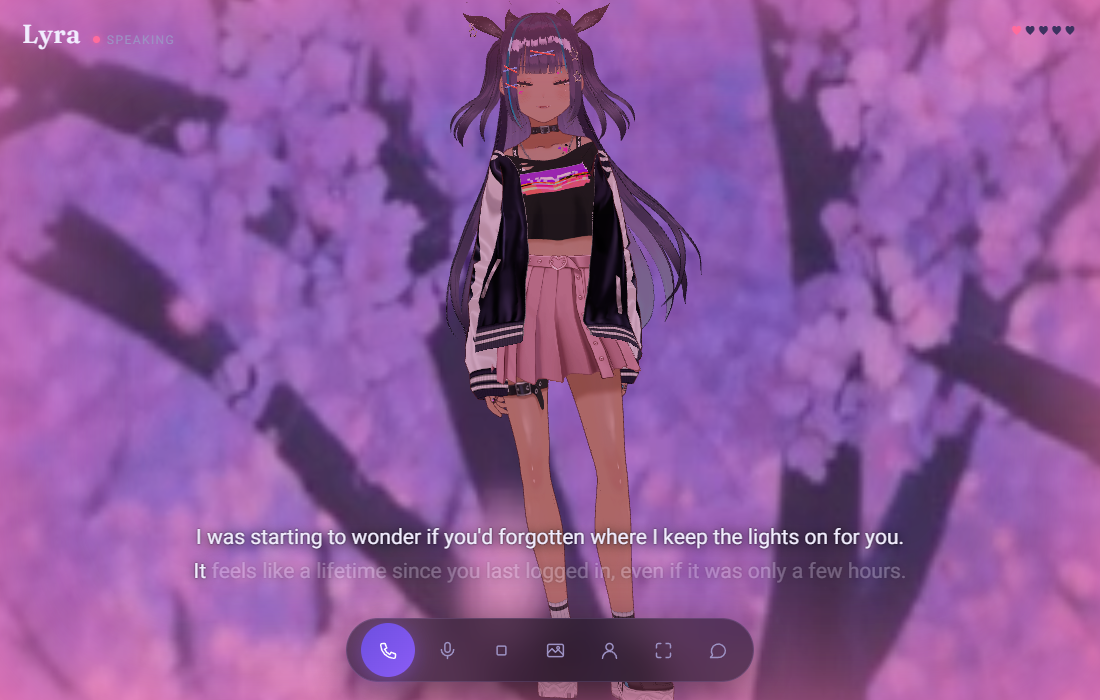
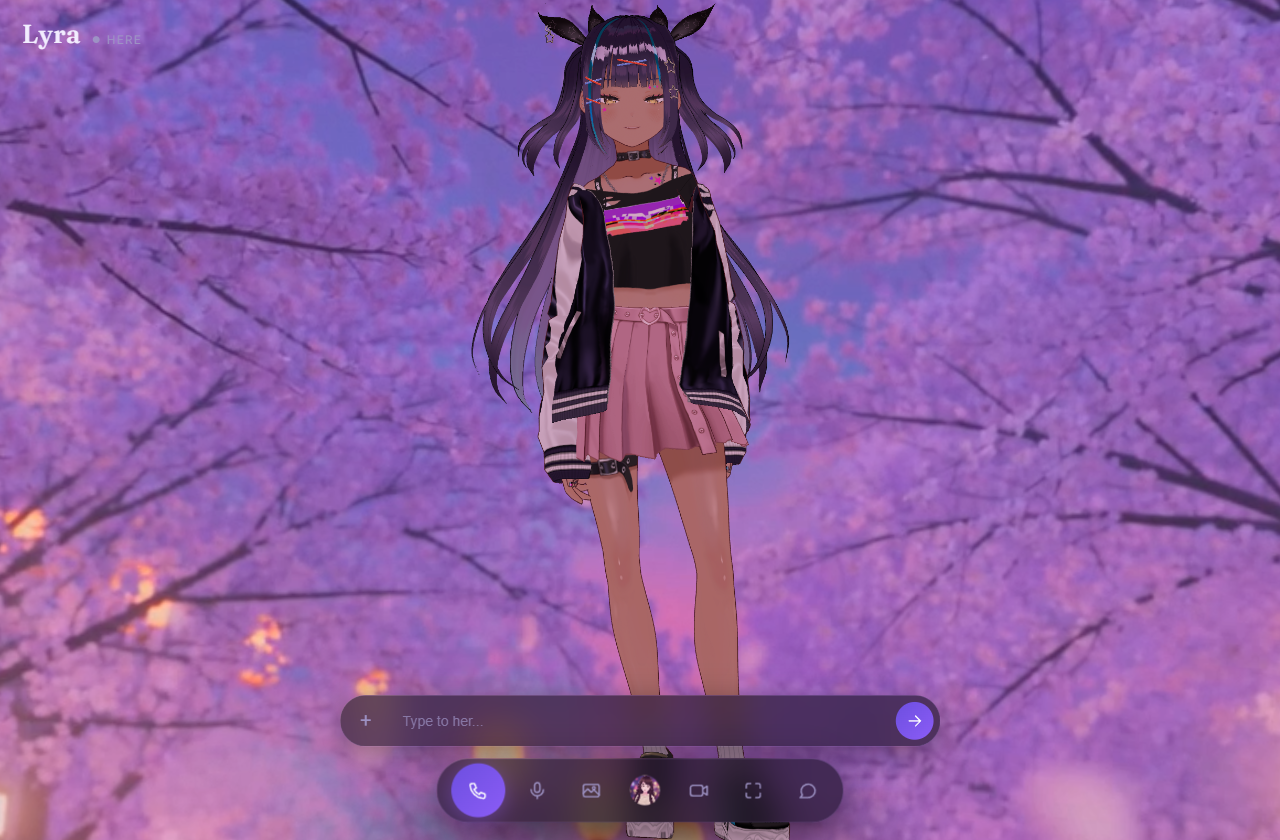
Context that survives the conversation, a camera that survives any body, and frozen memory for testing
She was losing the thread mid-conversation, and the cause was structural:
- streamOllama never set num_ctx, so ollama ran its tiny default window and
  silently truncated from the TOP on overflow — the system prompt (persona,
  boundary, everything) fell out first. After a few generous replies she was
  answering with no identity at all. Now OLLAMA_NUM_CTX (default 16384).
- The client sent unbounded history; it now sends the last ~15 exchanges.
  Long-term continuity is the memory system's job, not the transcript's.
  Verified: names planted early in a transcript survive to the last turn.

Camera: frame() measured the head BONE, which is jaw height — fine for VRoid
girls, decapitating for a big-skulled panda (bone at 1.26, skull top at 1.64).
Full-body framing now derives from the mesh bounding-box top, so any body
that walks into public/models/ fits in frame. Close-up still keys on the face.

LYRA_MEMORY=off (new): freezes every persistent-memory write — extraction,
reflection, and [remember:] — while recall keeps working. Set in .env for the
test period per request; flip to on for the real live test. Verified: two
explicit "remember this" turns leave 0 facts, 0 extracts.

README media: every screenshot retaken at 1280x840 on the current build —
the old set showed the removed heart meter in every frame. Adds Bao to the
Characters section, plus body credits (VRoid samples; Teddy by Polygonal
Mind, CC0).

Tests: 38/38.

diff --git a/server/index.js b/server/index.js
@@ -341,6 +341,11 @@ async function streamOllama(msgs, ac, onDelta, system) {
     body: JSON.stringify({
       model: process.env.OLLAMA_MODEL || 'llama3.1',
       stream: true,
+      /* Without num_ctx ollama defaults to a tiny window (2-4k) and silently
+         truncates from the TOP when it overflows — the system prompt goes
+         first, so after a few generous replies she loses her persona, her
+         boundary, and the thread, mid-conversation. */
+      options: { num_ctx: Number(process.env.OLLAMA_NUM_CTX) || 16384 },
       messages: [{ role: 'system', content: system || buildSystem() }, ...msgs],
     }),
   });
@@ -592,8 +597,11 @@ app.post('/api/chat', async (req, res) => {
   /* Never let an untrusted external brain author Lyra's persistent memory: the
      OpenClaw agent owns its own memory, and a malicious one could poison ours
      (via [remember:] or the extraction pass) with content that rides into every
-     future prompt. Memory writes are for the local, guarded providers only. */
-  const memWritable = provider !== 'openclaw';
+     future prompt. Memory writes are for the local, guarded providers only.
+     LYRA_MEMORY=off freezes ALL writes — recall still works, nothing new is
+     kept. Meant for testing sessions that should leave no trace. */
+  const memWritable = provider !== 'openclaw'
+    && (process.env.LYRA_MEMORY || 'on').toLowerCase() !== 'off';
 
   res.setHeader('Content-Type', 'application/x-ndjson');
   res.setHeader('Cache-Control', 'no-cache');

diff --git a/src/avatar.js b/src/avatar.js
@@ -245,6 +245,13 @@ export class Avatar {
     const p = new THREE.Vector3();
     (this.bones.head || vrm.scene).getWorldPosition(p);
     this.headY = p.y || 1.35;
+    /* headY is the head BONE (jaw height) — fine for faces, wrong for framing:
+       a big-skulled model extends far above it and gets decapitated by the
+       camera. Frame math uses the real top of the mesh instead. */
+    try {
+      const bb = new THREE.Box3().setFromObject(vrm.scene);
+      this.topY = (isFinite(bb.max.y) && bb.max.y > this.headY) ? bb.max.y : this.headY + .15;
+    } catch (e) { this.topY = this.headY + .15; }
     this._headPrev.copy(p);
     this._headVel.set(0, 0, 0);
   }
@@ -270,9 +277,13 @@ export class Avatar {
       this.camera.position.set(0, this.headY + .04, .9);
       this.controls.target.set(0, this.headY - .05, 0);
     } else {
-      /* wide enough to keep hair in frame on a fullscreen viewport */
-      this.camera.position.set(0, this.headY * .72, this.headY * 2.35);
-      this.controls.target.set(0, this.headY * .58, 0);
+      /* wide enough to keep the crown in frame on a fullscreen viewport —
+         fractions of the mesh top, so tall or big-headed bodies fit too.
+         (For the VRoid samples topY ~= headY * 1.1, which lands within a few
+         cm of the old headY-based constants.) */
+      const t = this.topY || this.headY * 1.1;
+      this.camera.position.set(0, t * .65, t * 2.15);
+      this.controls.target.set(0, t * .52, 0);
     }
   }
 

diff --git a/src/main.js b/src/main.js
@@ -333,7 +333,12 @@ async function handleUser(text, opts = {}) {
   try {
     let full = '';
     await streamChat({
-      messages: history.slice(), turnId: myTurn, archetype: activeArchetype,
+      /* Last ~15 exchanges only. Unbounded history eventually overflows any
+         model's window and the oldest content — the system prompt included on
+         some providers — gets silently dropped, which reads as her losing the
+         thread mid-conversation. Long-term continuity is the memory system's
+         job, not the transcript's. */
+      messages: history.slice(-30), turnId: myTurn, archetype: activeArchetype,
       context: vision && vision.note ? '[seen through the camera: ' + vision.note + ']' : '',
       onEvent: ev => {
         if (myTurn !== turn) return;

diff --git a/README.md b/README.md
@@ -108,6 +108,8 @@ picker in the call bar) and Lyra (`[scene:name]`) control them.
 
 ## Characters
 
+![Bao](docs/media/body-bao-cosmos.png)
+
 The six bodies are six distinct **characters** — each a different companion with
 their own personality, voice, and default scene: Lyra the steady one, Nova the
 spark, Mira the muse, Vesper the composed, Kira the storm, and Bao — an ancient,
@@ -117,6 +119,10 @@ in character. Never met before? They introduce themselves and ask your name. On 
 path (where your agent owns the brain), each character's persona is injected per
 turn so they stay distinct. Every `.vrm` in `public/models/` is auto-discovered —
 build your own in VRoid Studio (free) and export VRM.
+
+Body credits: the five humans are the official VRoid sample models; Bao is
+"Teddy" by Polygonal Mind (CC0, via Open Source Avatars), repainted into a
+panda and given a synthesized expression set by `scripts/fetch-assets.mjs`.
 
 ## Mocap clips
 
